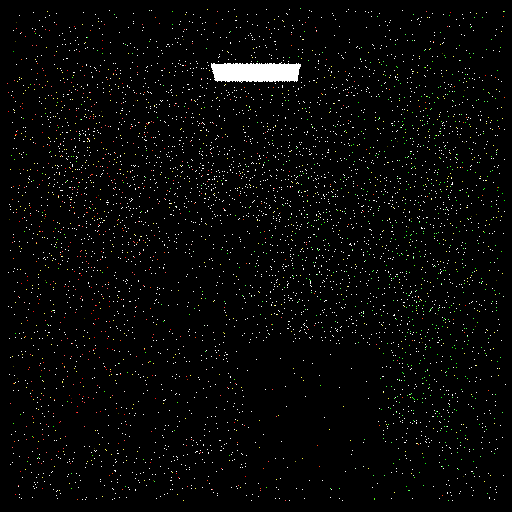
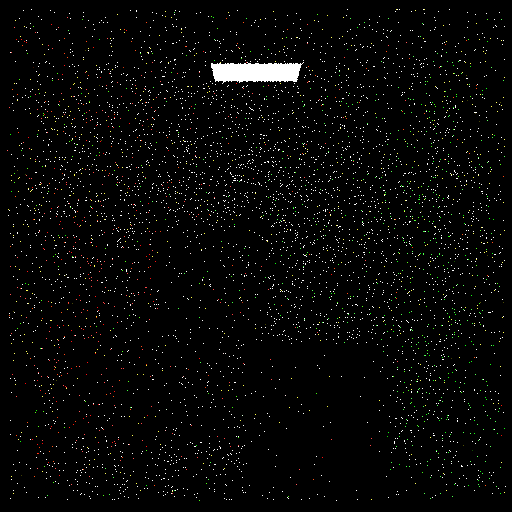
work on mirror ball scene

diff --git a/scenes.py b/scenes.py
@@ -30,7 +30,7 @@ class Scene:
         if t == -1.0:
             return glm.vec3(0)
 
-        emittance = material.emissive_color
+        emittance = material.emission()
         hit_point = ray.origin + t*ray.direction
 
         # Pick a new ray direction which depends on the properties of the given material.
@@ -166,3 +166,63 @@ class CornellBox(Scene):
     
     def name(self):
         return "CornellBox"
+
+
+class MirrorBalls(Scene):
+    def __init__(self):
+        camera = Camera()
+
+        shapes = [
+            # Floor - White
+            Rectangle(glm.vec3(552.8, 0.0, 0.0),
+                      glm.vec3(0),
+                      glm.vec3(0,0, 559.2),
+                      glm.vec3(549.6, 0.0, 559.2),
+                      DiffuseMaterial(diffuse = glm.vec3(0.9))),
+
+            # Left wall - Red
+            Rectangle(glm.vec3(552.8,   0.0,   0.0),
+                      glm.vec3(549.6,   0.0, 559.2),
+                      glm.vec3(556.0, 548.8, 559.2),
+                      glm.vec3(556.0, 548.8,   0.0),
+                      DiffuseMaterial(diffuse = glm.vec3(0.9,0.05,0.05))),
+
+            # Right wall - Green
+            Rectangle(glm.vec3(0.0,  0.0, 559.2),
+                      glm.vec3(0.0,   0.0,   0.0),
+                      glm.vec3(0.0, 548.8,   0.0),
+                      glm.vec3(0.0, 548.8, 559.2),
+                      DiffuseMaterial(diffuse = glm.vec3(0.05,0.9,0.05))),
+
+            # Back wall - White
+            Rectangle(glm.vec3(549.6, 0.0, 559.2),
+                      glm.vec3(0.0,  0.0, 559.2),
+                      glm.vec3(0.0, 548.8, 559.2),
+                      glm.vec3(556.0, 548.8, 559.2),
+                      DiffuseMaterial(diffuse = glm.vec3(0.9))),
+
+            # Ceiling - White
+            Rectangle(glm.vec3(556.0, 548.8, 0.0),
+                      glm.vec3(556.0, 548.8, 559.2),
+                      glm.vec3(0.0, 548.8, 559.2),
+                      glm.vec3(0.0, 548.8, 0.0),
+                      DiffuseMaterial(diffuse = glm.vec3(0.9))),
+
+            # Light
+            Rectangle(glm.vec3(343.0, 548.75, 227.0),
+                      glm.vec3(343.0, 548.75, 332.0),
+                      glm.vec3(213.0, 548.75, 332.0),
+                      glm.vec3(213.0, 548.75, 227.0),
+                      DiffuseMaterial(diffuse = glm.vec3(0), emission = glm.vec3(50, 50, 50))),
+
+            # Large Mirror Ball
+            Sphere(radius=150, center=glm.vec3(230, 150, 200), material=MirrorMaterial())
+
+            # Small Mirror ball
+            Sphere(radius=100, center=glm.vec3(130, 100, 100), material=MirrorMaterial())
+        ]
+            
+        Scene.__init__(self, camera, shapes)
+    
+    def name(self):
+        return "MirrorBalls"

diff --git a/materials.py b/materials.py
@@ -14,6 +14,9 @@ class Material:
     def sample_ray(self, ray, N, P):
         return (None, 0)
 
+    def emission(self):
+        return glm.vec3(0)
+
 class DiffuseMaterial(Material):
     def __init__(self, diffuse=glm.vec3(1), emission = glm.vec3(0)):
         self.diffuse_color = diffuse
@@ -22,6 +25,9 @@ class DiffuseMaterial(Material):
     # The diffuse BRDF is equal in all directions with a cosine falloff.
     def brdf(self, w_i, w_o, n, p):
         return self.diffuse_color / math.pi
+
+    def emission(self):
+        return self.emissive_color
 
     # Returns a vector in the hemisphere around N with a cosine weighted
     # distribution to avoid clumping along with the pdf of cos(theta) / Pi.
@@ -61,5 +67,18 @@ class DiffuseMaterial(Material):
 
 
 class MirrorMaterial(Material):
-    def __init__(self):
-        return
+    def __init__(self, color=glm.vec3(1)):
+        self.color = color
+
+    # The brdf is only valid if w_o is the perfect reflected vector to w_i.
+    def brdf(self, w_i, w_o, n, p):
+        return 1.0
+
+    # Simply return the mirrored ray across the normal with a pdf of 1.
+    def sample_ray(self, ray, N, P):
+        d = glm.vec3(-ray.direction)
+        new_dir = d - 2.0 * glm.dot(d, N) * N
+        new_ray = Ray() 
+        new_ray.dir = new_dir
+        new_ray.origin = P + 0.001 * new_dir
+        return (new_ray, 1.0)

diff --git a/shapes.py b/shapes.py
@@ -1,4 +1,5 @@
 from ray import *
+from materials import *
 
 class BoundingBox:
     def __init__(self, vertices):
@@ -123,10 +124,10 @@ class Rectangle(Mesh):
         Mesh.__init__(self, [v0, v1, v2, v3], [0, 1, 2, 0, 2, 3], material)
 
 class Sphere(Shape):
-    def __init__(self, radius=1.0, center=glm.vec3(0), diffuse=glm.vec3(1), specular=glm.vec3(0), percent=1.0):
+    def __init__(self, radius=1.0, center=glm.vec3(0), material=DiffuseMaterial()):
         self.radius = radius
         self.center = center
-        self.material = Material(diffuse, specular, percent)
+        self.material = material
 
     # Returns the normal vector at a particular point.
     def normal(self, point):
@@ -138,7 +139,7 @@ class Sphere(Shape):
         b = glm.dot(op, ray.direction)
         det = b*b - glm.dot(op, op) + self.radius*self.radius
         if det < 0:
-            return -1.0
+            return (-1, None, None)
         else:
             det = math.sqrt(det)
         t = b - det

diff --git a/path_tracer.py b/path_tracer.py
@@ -38,6 +38,11 @@ def get_options():
                       default=1,
                       help="The number of samples (rays) per pixel.")
 
+    parser.add_option("-c", "--scene",
+                      action="store", # The scene to load up
+                      dest="scene",
+                      default="CornellBox",
+                      help="The scene to load up")
 
     parser.add_option("-l", "--direct_lighting",
                       action="store", # Whether we use direct lighting or not
@@ -56,7 +61,14 @@ def main():
     
     pixel_data = np.zeros((y_res, x_res, 3))
 
-    scene = CornellBox()
+    scene = None
+    if options.scene == "CornellBox":
+        scene = CornellBox()
+    elif options.scene == "MirrorBalls":
+        scene = MirrorBalls()
+    else:
+        print("Invalid scene!")
+        return
 
     q = JoinableQueue()
 
